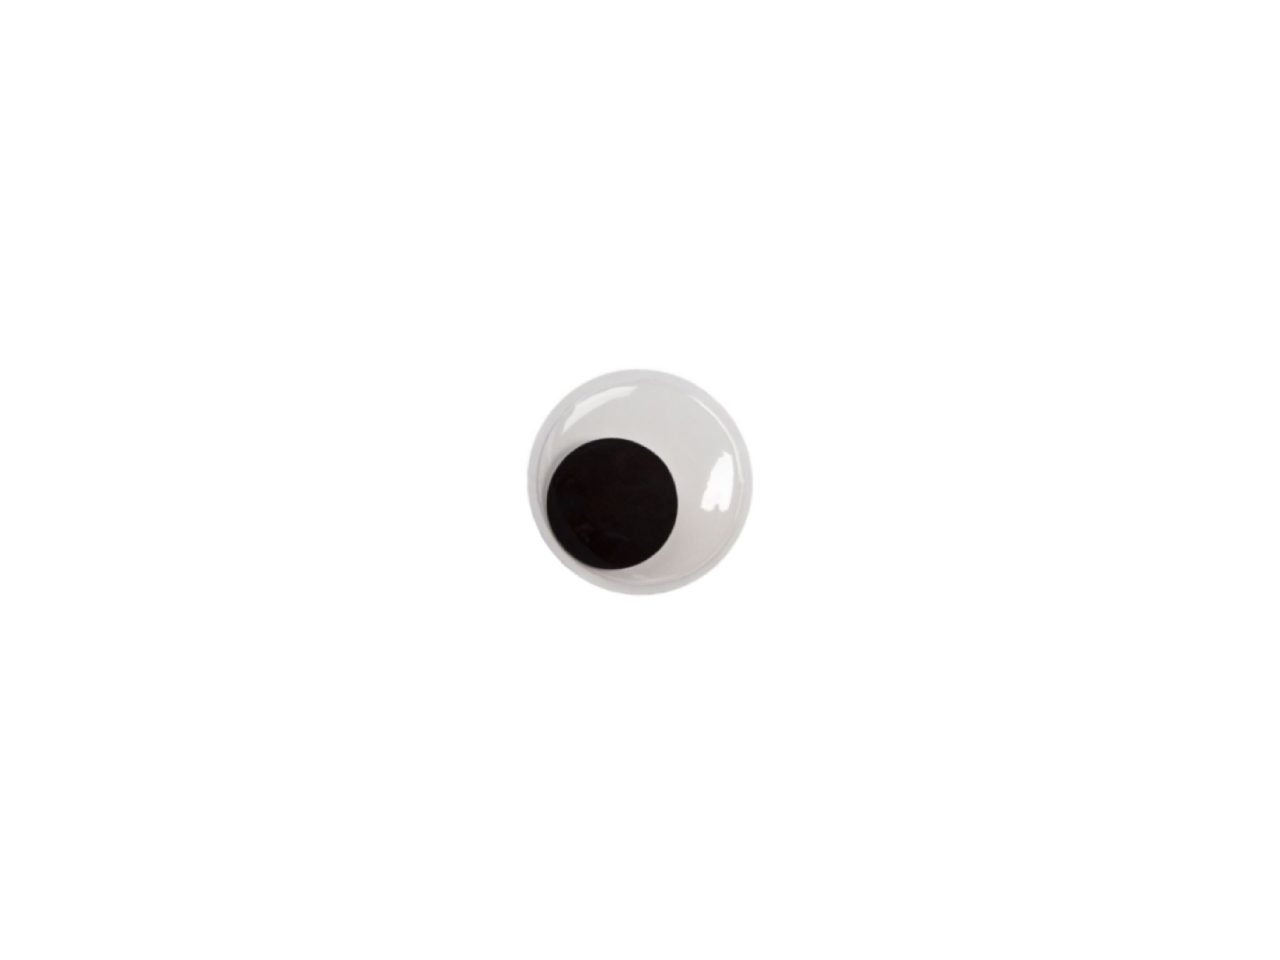
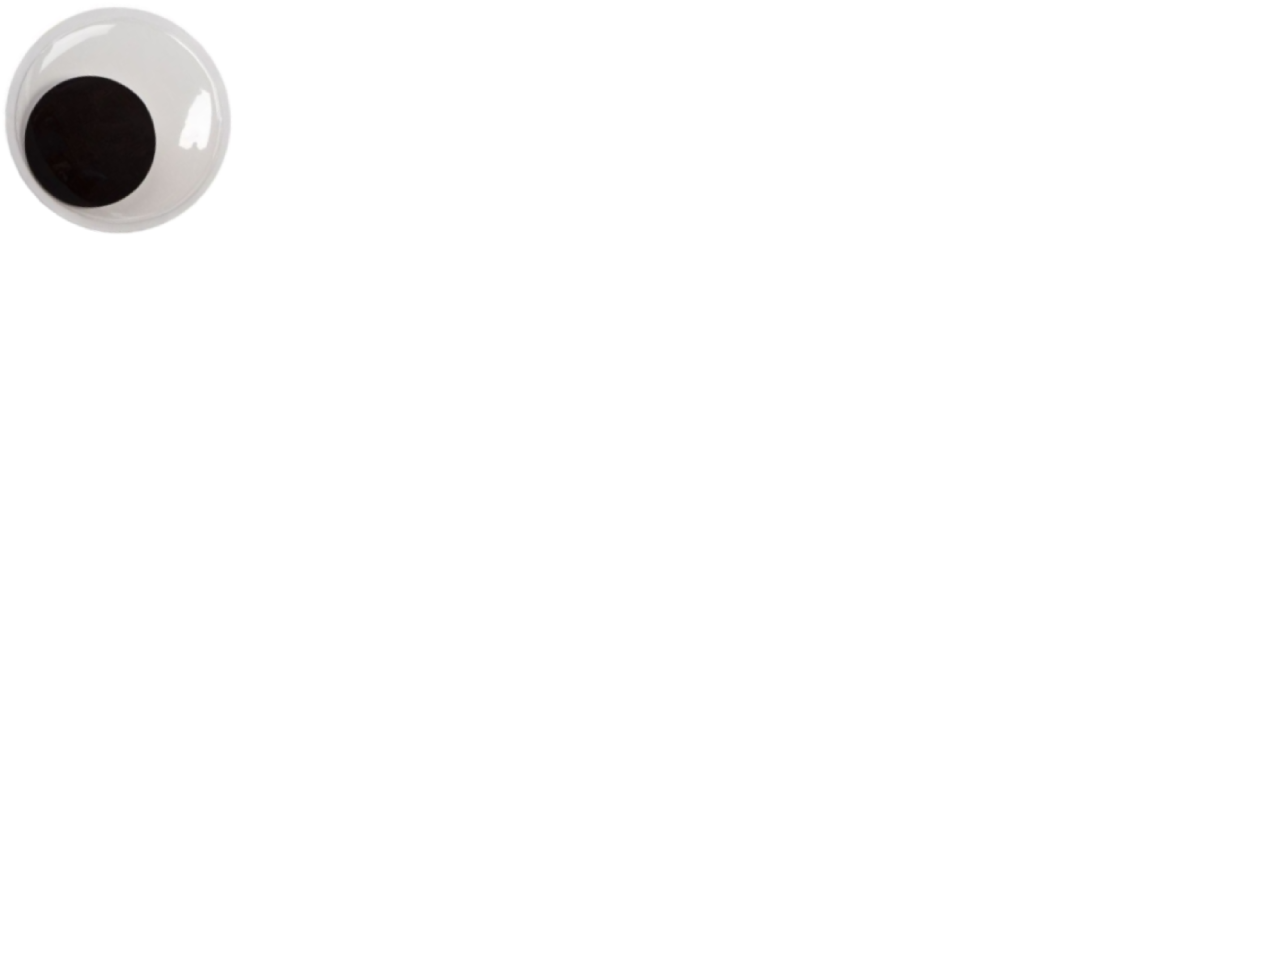
Photos

Changed region(s): [[0.4062, 0.375, 0.5938, 0.625], [0.0, 0.0, 0.1875, 0.25]]

diff --git a/2Draw_faces.js b/2Draw_faces.js
@@ -1,6 +1,6 @@
 // ----=  Faces  =----
 /* load images here */
-
+let myImage;
 
 function prepareInteraction() {
   myImage = loadImage('images/EyeLeft.png');
@@ -69,7 +69,7 @@ function drawInteraction(faces, hands) {
     Start drawing on the face here
     */
   //splashback()
-  image(myImage, face.keypoints[273].x,face.keypoints[273].y,300,223);
+  image(myImage,leftEyeCenterX,leftEyeCenterY,300,223);
     /*
     Stop drawing on the face here
     */
